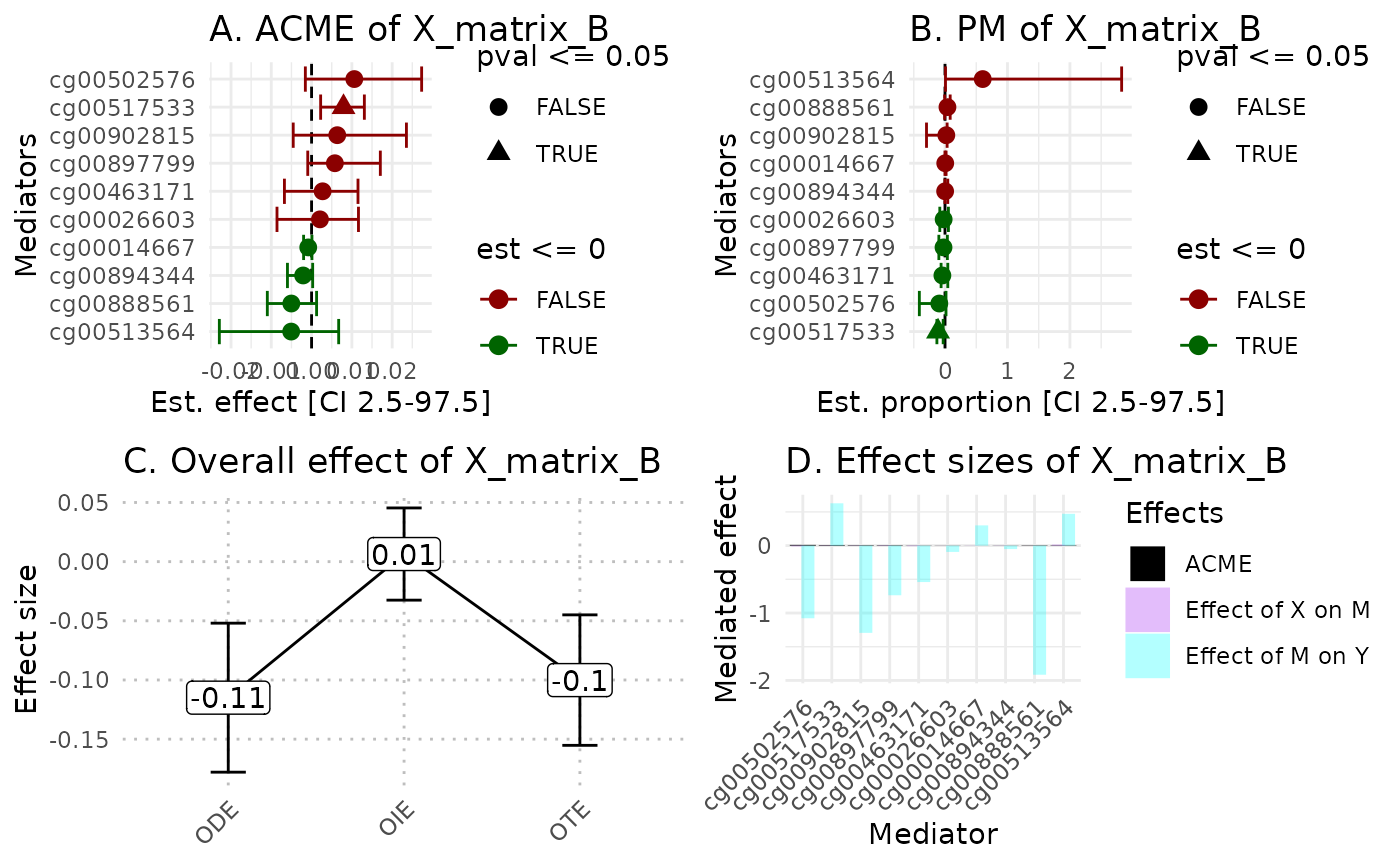
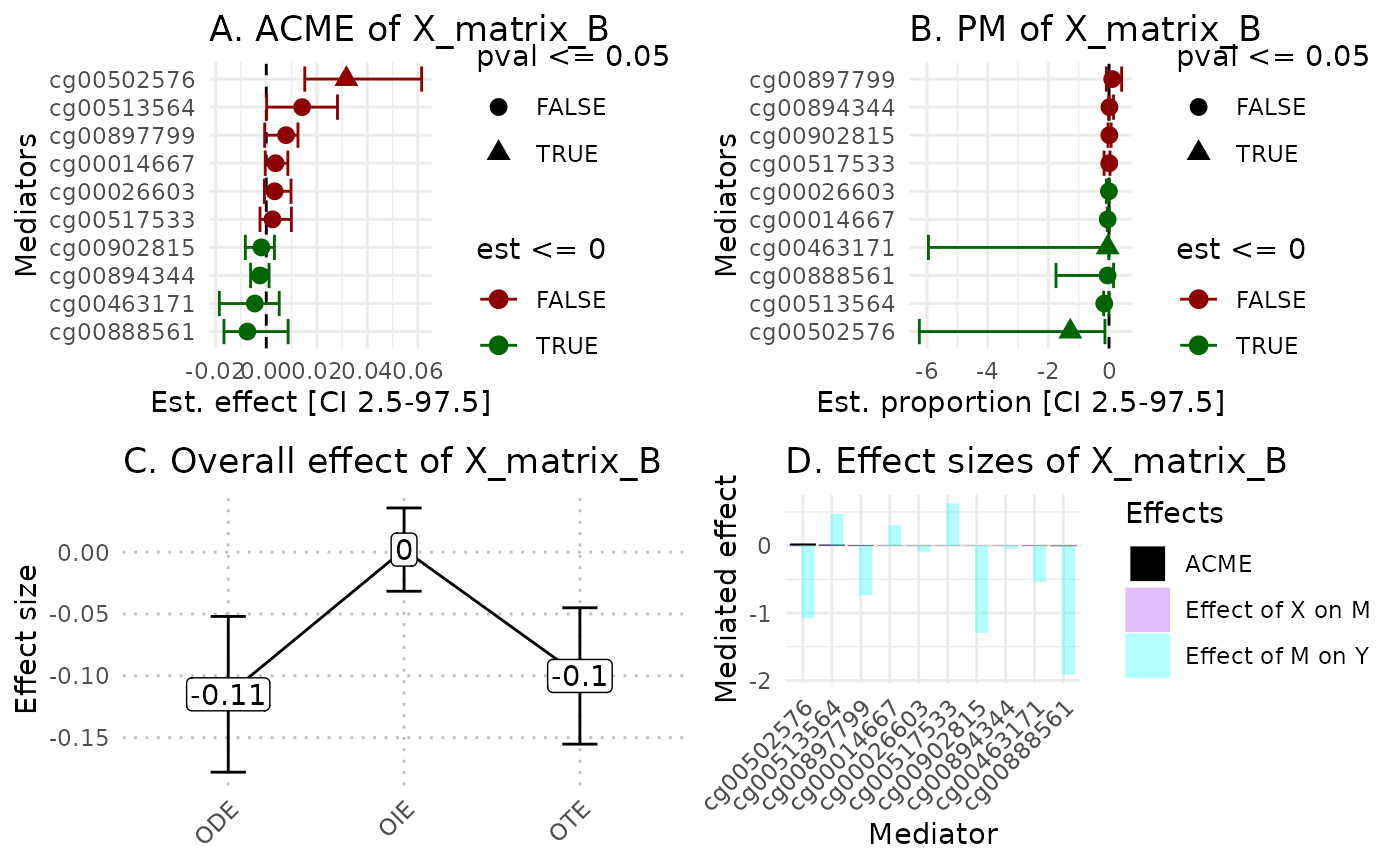
Deploying to gh-pages from @ bcm-uga/hdmax2@609d964cdafb844ef7a0e5f080ef1be22482f806 🚀

diff --git a/reference/plot_multivariate.html b/reference/plot_multivariate.html
@@ -117,9 +117,52 @@ This function draw a summary plot of hdmax2</p>
 <span class="r-out co"><span class="r-pr">#&gt;</span> [1] "A model is run to estimate indirect effect of the following explanatory variable: X_matrix_A"</span>
 <span class="r-out co"><span class="r-pr">#&gt;</span> [1] "One mode of the categorical variable is arbitrarily removed to avoid collinearity."</span>
 <span class="r-out co"><span class="r-pr">#&gt;</span> [1] "Computing ODE and OTE for continuous outcome."</span>
-<span class="r-err co"><span class="r-pr">#&gt;</span> <span class="error">Error in eval(predvars, data, env):</span> object 'mediators_top10' not found</span>
+<span class="r-out co"><span class="r-pr">#&gt;</span> [1] "A model is run to estimate indirect effect of the following explanatory variable: X_matrix_B"</span>
+<span class="r-out co"><span class="r-pr">#&gt;</span> [1] "One mode of the categorical variable is arbitrarily removed to avoid collinearity."</span>
+<span class="r-out co"><span class="r-pr">#&gt;</span> [1] "Computing ODE and OTE for continuous outcome."</span>
+<span class="r-out co"><span class="r-pr">#&gt;</span> [1] "A model is run to estimate indirect effect of the following explanatory variable: X_matrix_C"</span>
+<span class="r-out co"><span class="r-pr">#&gt;</span> [1] "One mode of the categorical variable is arbitrarily removed to avoid collinearity."</span>
+<span class="r-out co"><span class="r-pr">#&gt;</span> [1] "Computing ODE and OTE for continuous outcome."</span>
+<span class="r-out co"><span class="r-pr">#&gt;</span> [1] "A model is run to estimate indirect effect of the following explanatory variable: X_matrix_D"</span>
+<span class="r-out co"><span class="r-pr">#&gt;</span> [1] "One mode of the categorical variable is arbitrarily removed to avoid collinearity."</span>
+<span class="r-out co"><span class="r-pr">#&gt;</span> [1] "Computing ODE and OTE for continuous outcome."</span>
 <span class="r-in"><span><span class="fu">hdmax2</span><span class="fu">::</span><span class="fu">plot_multivariate</span><span class="op">(</span><span class="va">hdmax2_step2</span>, N_med <span class="op">=</span> <span class="fl">10</span><span class="op">)</span></span></span>
-<span class="r-err co"><span class="r-pr">#&gt;</span> <span class="error">Error in eval(expr, envir, enclos):</span> object 'hdmax2_step2' not found</span>
+<span class="r-plt img"><img src="plot_multivariate-1.png" alt="" width="700" height="433"></span>
+<span class="r-plt img"><img src="plot_multivariate-2.png" alt="" width="700" height="433"></span>
+<span class="r-plt img"><img src="plot_multivariate-3.png" alt="" width="700" height="433"></span>
+<span class="r-plt img"><img src="plot_multivariate-4.png" alt="" width="700" height="433"></span>
+<span class="r-out co"><span class="r-pr">#&gt;</span> $X_matrix_A</span>
+<span class="r-out co"><span class="r-pr">#&gt;</span> TableGrob (2 x 2) "arrange": 4 grobs</span>
+<span class="r-out co"><span class="r-pr">#&gt;</span>   z     cells    name           grob</span>
+<span class="r-out co"><span class="r-pr">#&gt;</span> 1 1 (1-1,1-1) arrange gtable[layout]</span>
+<span class="r-out co"><span class="r-pr">#&gt;</span> 2 2 (1-1,2-2) arrange gtable[layout]</span>
+<span class="r-out co"><span class="r-pr">#&gt;</span> 3 3 (2-2,1-1) arrange gtable[layout]</span>
+<span class="r-out co"><span class="r-pr">#&gt;</span> 4 4 (2-2,2-2) arrange gtable[layout]</span>
+<span class="r-out co"><span class="r-pr">#&gt;</span> </span>
+<span class="r-out co"><span class="r-pr">#&gt;</span> $X_matrix_B</span>
+<span class="r-out co"><span class="r-pr">#&gt;</span> TableGrob (2 x 2) "arrange": 4 grobs</span>
+<span class="r-out co"><span class="r-pr">#&gt;</span>   z     cells    name           grob</span>
+<span class="r-out co"><span class="r-pr">#&gt;</span> 1 1 (1-1,1-1) arrange gtable[layout]</span>
+<span class="r-out co"><span class="r-pr">#&gt;</span> 2 2 (1-1,2-2) arrange gtable[layout]</span>
+<span class="r-out co"><span class="r-pr">#&gt;</span> 3 3 (2-2,1-1) arrange gtable[layout]</span>
+<span class="r-out co"><span class="r-pr">#&gt;</span> 4 4 (2-2,2-2) arrange gtable[layout]</span>
+<span class="r-out co"><span class="r-pr">#&gt;</span> </span>
+<span class="r-out co"><span class="r-pr">#&gt;</span> $X_matrix_C</span>
+<span class="r-out co"><span class="r-pr">#&gt;</span> TableGrob (2 x 2) "arrange": 4 grobs</span>
+<span class="r-out co"><span class="r-pr">#&gt;</span>   z     cells    name           grob</span>
+<span class="r-out co"><span class="r-pr">#&gt;</span> 1 1 (1-1,1-1) arrange gtable[layout]</span>
+<span class="r-out co"><span class="r-pr">#&gt;</span> 2 2 (1-1,2-2) arrange gtable[layout]</span>
+<span class="r-out co"><span class="r-pr">#&gt;</span> 3 3 (2-2,1-1) arrange gtable[layout]</span>
+<span class="r-out co"><span class="r-pr">#&gt;</span> 4 4 (2-2,2-2) arrange gtable[layout]</span>
+<span class="r-out co"><span class="r-pr">#&gt;</span> </span>
+<span class="r-out co"><span class="r-pr">#&gt;</span> $X_matrix_D</span>
+<span class="r-out co"><span class="r-pr">#&gt;</span> TableGrob (2 x 2) "arrange": 4 grobs</span>
+<span class="r-out co"><span class="r-pr">#&gt;</span>   z     cells    name           grob</span>
+<span class="r-out co"><span class="r-pr">#&gt;</span> 1 1 (1-1,1-1) arrange gtable[layout]</span>
+<span class="r-out co"><span class="r-pr">#&gt;</span> 2 2 (1-1,2-2) arrange gtable[layout]</span>
+<span class="r-out co"><span class="r-pr">#&gt;</span> 3 3 (2-2,1-1) arrange gtable[layout]</span>
+<span class="r-out co"><span class="r-pr">#&gt;</span> 4 4 (2-2,2-2) arrange gtable[layout]</span>
+<span class="r-out co"><span class="r-pr">#&gt;</span> </span>
 </code></pre></div>
     </div>
   </main><aside class="col-md-3"><nav id="toc"><h2>On this page</h2>

diff --git a/reference/plot_hdmax2.html b/reference/plot_hdmax2.html
@@ -114,9 +114,15 @@ This function draw a summary plot of hdmax2</p>
 <span class="r-out co"><span class="r-pr">#&gt;</span> [1] "Generate regression 2 for continuous outcome and mediator 9"</span>
 <span class="r-out co"><span class="r-pr">#&gt;</span> [1] "Generate regression 2 for continuous outcome and mediator 10"</span>
 <span class="r-out co"><span class="r-pr">#&gt;</span> [1] "Computing ODE and OTE for continuous outcome."</span>
-<span class="r-err co"><span class="r-pr">#&gt;</span> <span class="error">Error in eval(predvars, data, env):</span> object 'mediators_top10' not found</span>
 <span class="r-in"><span><span class="fu">hdmax2</span><span class="fu">::</span><span class="fu">plot_hdmax2</span><span class="op">(</span><span class="va">hdmax2_step2</span>, N_med <span class="op">=</span> <span class="fl">10</span><span class="op">)</span></span></span>
-<span class="r-err co"><span class="r-pr">#&gt;</span> <span class="error">Error in eval(expr, envir, enclos):</span> object 'hdmax2_step2' not found</span>
+<span class="r-out co"><span class="r-pr">#&gt;</span> [1] "hdmax2 plot for univariate exposome"</span>
+<span class="r-plt img"><img src="plot_hdmax2-1.png" alt="" width="700" height="433"></span>
+<span class="r-out co"><span class="r-pr">#&gt;</span> TableGrob (2 x 2) "arrange": 4 grobs</span>
+<span class="r-out co"><span class="r-pr">#&gt;</span>   z     cells    name           grob</span>
+<span class="r-out co"><span class="r-pr">#&gt;</span> 1 1 (1-1,1-1) arrange gtable[layout]</span>
+<span class="r-out co"><span class="r-pr">#&gt;</span> 2 2 (1-1,2-2) arrange gtable[layout]</span>
+<span class="r-out co"><span class="r-pr">#&gt;</span> 3 3 (2-2,1-1) arrange gtable[layout]</span>
+<span class="r-out co"><span class="r-pr">#&gt;</span> 4 4 (2-2,2-2) arrange gtable[layout]</span>
 </code></pre></div>
     </div>
   </main><aside class="col-md-3"><nav id="toc"><h2>On this page</h2>

diff --git a/reference/plot_univariate.html b/reference/plot_univariate.html
@@ -114,9 +114,14 @@ This function draw a summary plot of hdmax2</p>
 <span class="r-out co"><span class="r-pr">#&gt;</span> [1] "Generate regression 2 for continuous outcome and mediator 9"</span>
 <span class="r-out co"><span class="r-pr">#&gt;</span> [1] "Generate regression 2 for continuous outcome and mediator 10"</span>
 <span class="r-out co"><span class="r-pr">#&gt;</span> [1] "Computing ODE and OTE for continuous outcome."</span>
-<span class="r-err co"><span class="r-pr">#&gt;</span> <span class="error">Error in eval(predvars, data, env):</span> object 'mediators_top10' not found</span>
 <span class="r-in"><span><span class="fu">hdmax2</span><span class="fu">::</span><span class="fu">plot_univariate</span><span class="op">(</span><span class="va">hdmax2_step2</span>, N_med <span class="op">=</span> <span class="fl">10</span><span class="op">)</span></span></span>
-<span class="r-err co"><span class="r-pr">#&gt;</span> <span class="error">Error in eval(expr, envir, enclos):</span> object 'hdmax2_step2' not found</span>
+<span class="r-plt img"><img src="plot_univariate-1.png" alt="" width="700" height="433"></span>
+<span class="r-out co"><span class="r-pr">#&gt;</span> TableGrob (2 x 2) "arrange": 4 grobs</span>
+<span class="r-out co"><span class="r-pr">#&gt;</span>   z     cells    name           grob</span>
+<span class="r-out co"><span class="r-pr">#&gt;</span> 1 1 (1-1,1-1) arrange gtable[layout]</span>
+<span class="r-out co"><span class="r-pr">#&gt;</span> 2 2 (1-1,2-2) arrange gtable[layout]</span>
+<span class="r-out co"><span class="r-pr">#&gt;</span> 3 3 (2-2,1-1) arrange gtable[layout]</span>
+<span class="r-out co"><span class="r-pr">#&gt;</span> 4 4 (2-2,2-2) arrange gtable[layout]</span>
 </code></pre></div>
     </div>
   </main><aside class="col-md-3"><nav id="toc"><h2>On this page</h2>

diff --git a/reference/estimate_effect.html b/reference/estimate_effect.html
@@ -150,7 +150,6 @@ tests their significance.</p>
 <span class="r-out co"><span class="r-pr">#&gt;</span> [1] "Generate regression 2 for continuous outcome and mediator 9"</span>
 <span class="r-out co"><span class="r-pr">#&gt;</span> [1] "Generate regression 2 for continuous outcome and mediator 10"</span>
 <span class="r-out co"><span class="r-pr">#&gt;</span> [1] "Computing ODE and OTE for continuous outcome."</span>
-<span class="r-err co"><span class="r-pr">#&gt;</span> <span class="error">Error in eval(predvars, data, env):</span> object 'mediators_top10' not found</span>
 </code></pre></div>
     </div>
   </main><aside class="col-md-3"><nav id="toc"><h2>On this page</h2>
